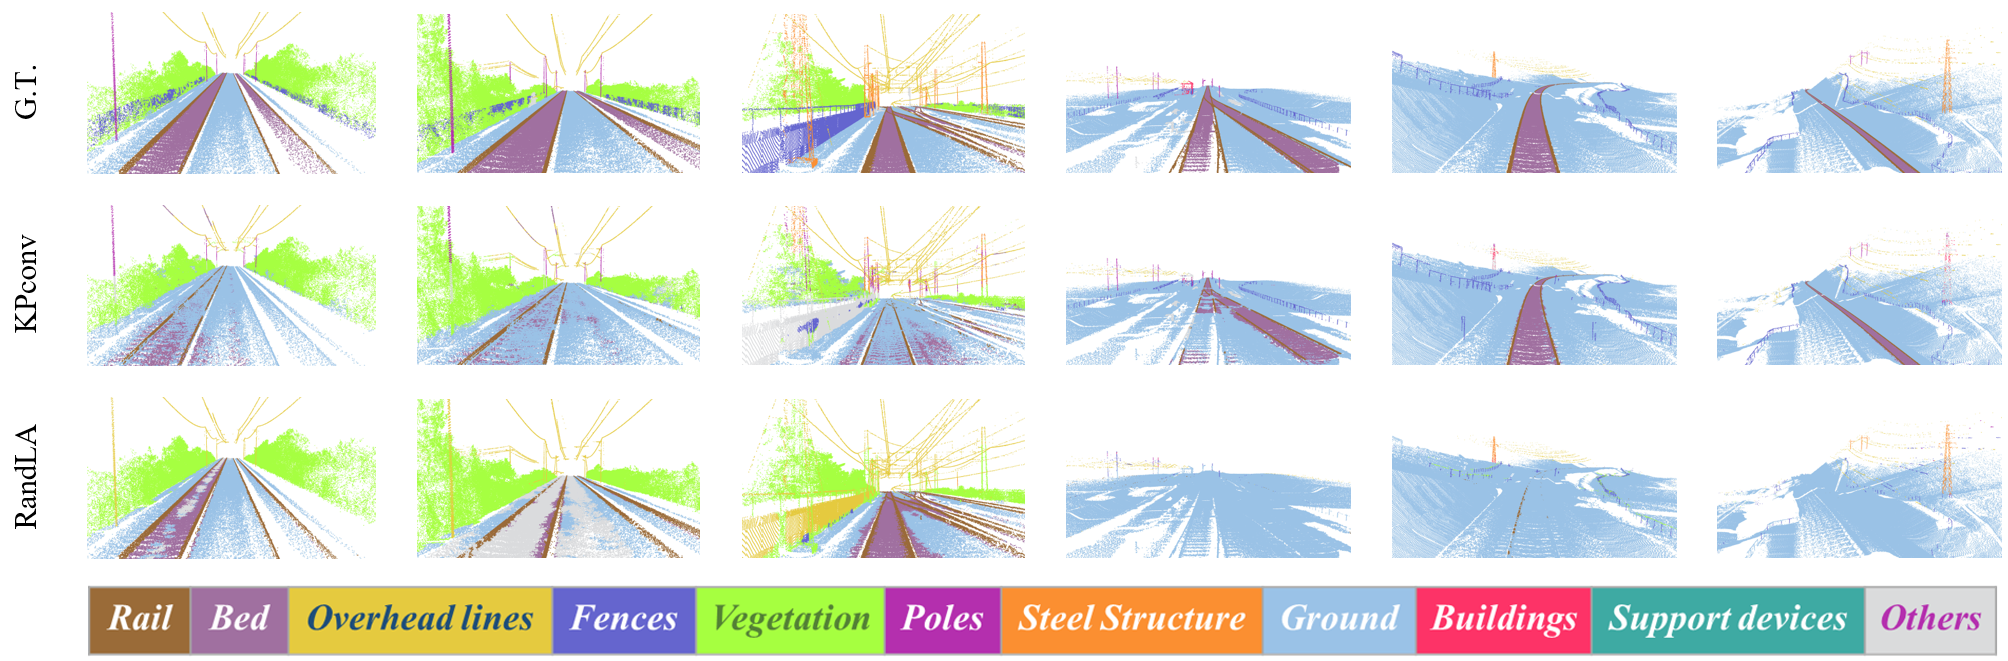
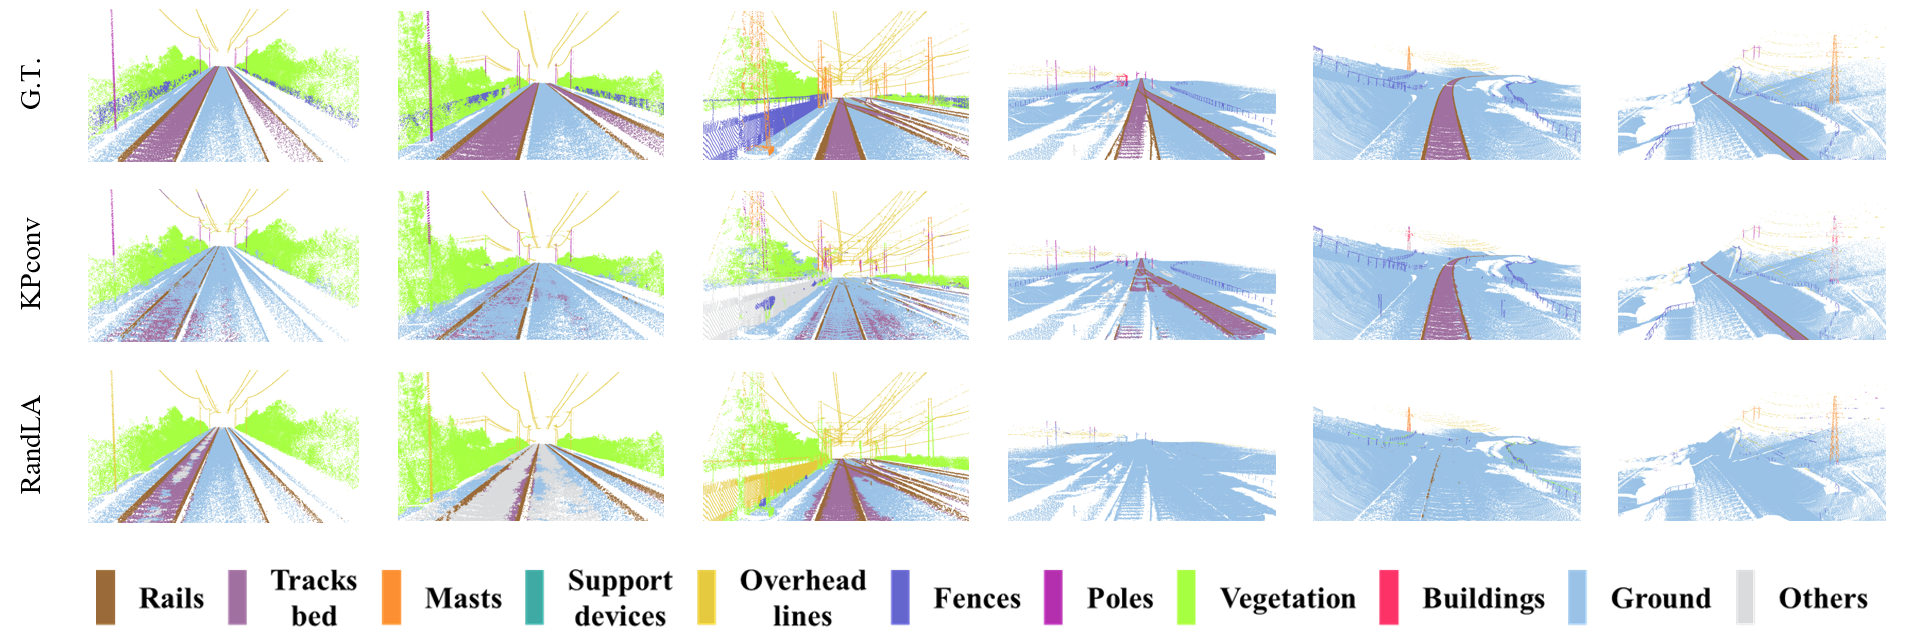
update README.md

diff --git a/README.md b/README.md
@@ -5,7 +5,7 @@
 
 Point cloud semantic segmentation (PCSS) shows great potential in generating accurate 3D semantic maps for digital twin railways. Deep learning-based methods have seen substantial advancements, driven by numerous PCSS datasets. Nevertheless, existing datasets tend to neglect railway scenes, with limitations in scale, categories, and scene diversity. This motivated us to establish WHU-Railway3D, a diverse PCSS dataset specifically designed for railway scenes. 
 
-WHU-Railway3D is categorized into urban, rural, and plateau railways based on scene complexity and semantic class distribution. The dataset spans 30 km with 4 billion points labeled into 11 classes (e.g., rails, overhead lines). In addition to 3D coordinates, WHU-Railway3D provides rich attribute information such as reflected intensity and number of returns. Cutting-edge methods are extensively evaluated on the dataset, followed by in-depth analysis. Lastly, key challenges and potential future work are identified to stimulate further innovative research.
+WHU-Railway3D is categorized into urban, rural, and plateau railways based on scene complexity and semantic class distribution. The dataset spans 30 km with 3.8 billion points labeled into 11 classes (e.g., rails, overhead lines). In addition to 3D coordinates, WHU-Railway3D provides rich attribute information such as reflected intensity and number of returns. Cutting-edge methods are extensively evaluated on the dataset, followed by in-depth analysis. Lastly, key challenges and potential future work are identified to stimulate further innovative research.
 
 ## 📌 Download
 
@@ -21,11 +21,11 @@ Main web page of our group : http://3s.whu.edu.cn/ybs/index.htm
 
 ### 1.1 Overview
 
-Our dataset is categorized based on scene complexity and category distribution patterns into urban railways, rural railways, and plateau railways. Each category covers a distance of approximately 10 kilometers, resulting in a dataset consisting of about 4 billion data points. Each point is labeled under one of the 11 categories, such as rails, masts, overhead lines, and fences.
+Our dataset is categorized based on scene complexity and category distribution patterns into urban railways, rural railways, and plateau railways. Each category covers a distance of approximately 10 kilometers, resulting in a dataset consisting of about 3.8 billion data points. Each point is labeled under one of the 11 categories, such as rails, track bed, masts, overhead lines, and fences.
 
 <img src="images/Fig1-Overview_of_WHU-Railway3D.png" alt="Network" style="zoom:100%;" />
 
-
+<img src="images/Fig2-Display.png" alt="Network" style="zoom:100%;" />
 
 <img src="images/Table1-Comparison.png" alt="Network" style="zoom:100%;" />
 
@@ -39,21 +39,29 @@ Our dataset is categorized based on scene complexity and category distribution p
 
 ### 1.3 Semantic Annotations
 
-- Rails: tracks of the train, as shown in Fig. 3 (g).
-- Bed: the section between tracks, including sleepers, ballast, etc. Refer to Fig. 3 (h).
-- Overhead lines: including power lines and catenary lines, as shown in Fig. 3 (a).
-- Fences: including fences and sound insulation panels.
-- Vegetation: including trees and grass, as shown in Fig. 3 (f)
-- Poles: including utility poles and other pole-like objects, an example can be found in Fig. 3 (i).
-- Towers: including masts and electricity transmission towers near the railways, refer to Fig. 3(b).
-- Ground: including cement and rough ground.
-- Buildings: including houses, high-rise buildings, warehouses, etc. Refer to Fig. 3 (d).
-- Support devices: devices for supporting power lines, as shown in Fig. 3 (c).
-- Others: Other unclassified objects, such as pedestrians, vehicles, etc.
+- Rails: hot-rolled steel with a cross-section approximate to an I-beam, providing a reliable rolling surface for train wheels to travel on, as shown in Fig. 3 (a).
+
+- Track bed: the section between rails, including sleepers, ballast, etc. Refer to Fig. 3 (a).
+
+- Masts: load-bearing steel structures for the overhead line system and supporting devices, as shown in Fig. 3 (b).
+
+- Support devices: including support arms, strings of suspended insulators, and other supporting equipment used to secure overhead lines in the specified position and height, as shown in Fig. 3 (b).
+
+- Overhead lines: a specialized form of transmission line erected above the railway line to supply power to electric locomotives, as shown in Fig. 3 (b).
+
+- Fences: serve as demarcation or protective barriers for railway tracks, aiming to prevent trespassing and vandalism, as shown in Fig. 3 (e).
+
+- Poles: utility poles and other pole-like objects, as shown in Fig. 3 (c).
+
+- Vegetation: including trees and plants, refer to Fig. 3 (e).
+
+- Buildings: structures or constructions surrounding the railway, including low-rise houses, tall buildings, warehouses, etc. Refer to Fig. 3 (d).
+
+- Ground: concrete pavement or bare ground.
+
+- Others: Other unclassified objects, such as pedestrians, vehicles, and bridges, as shown in Fig. 3 (f).
 
 <img src="images/Fig3-Categories.png" alt="Network" style="zoom:100%;" />
-
-
 
 ### 1.4 Statistics
 
@@ -61,21 +69,33 @@ To ensure compatibility with modern GPUs for deep learning-based semantic segmen
 
 <img src="images/Fig4-Statistics.png" alt="Network" style="zoom:50%;" />
 
+
+
 ## ✨ Benchmark
 
 We carry out an extensive evaluation of numerous cutting-edge methods using our dataset and provide an in-depth analysis of the benchmark results. Lastly, we identify key challenges and potential future work to stimulate further innovative research within this community.
+
+- **Table 1**: Quantitative experimental results of different methods on urban railway dataset.
 
 <img src="images/Table3-Benchmarks.png" alt="Network" style="zoom:100%;" />
 
 <img src="images/Fig5-Visualization.png" alt="Network" style="zoom:100%;" />
 
+- **Table 2**: Quantitative experimental results of KPconv and RandLA-Net on the rural railway dataset and plateau railway dataset.
+
 <img src="images/Table4-Benchmarks-2.png" alt="Network" style="zoom:100%;" />
 
 <img src="images/Fig6-Visualization2.png" alt="Network" style="zoom:100%;" />
 
+- **Table 3**: Experimental results of semantic segmentation before and after the introduction of intensity information in different methods. The asterisks (*) in the upper right corner indicate the results obtained by incorporating intensity information.
+
 <img src="images/Table5-Intensity.png" alt="Network" style="zoom:100%;" />
 
+- **Table 4**: Experimental results on the cross-scene generalization ability of KPConv. U2R represents training on the urban railway dataset and testing on the rural railway dataset. U2P represents training on the urban railway dataset and testing on the plateau railway dataset. R2P represents training on the rural railway dataset and testing on the plateau railway dataset.
+
 <img src="images/Table6-Generalization.png" alt="Network" style="zoom:100%;" />
+
+- **Table 5**: Quantitative results of SQN using different rates of labeled data.
 
 <img src="images/Table7-SQN.png" alt="Network" style="zoom:100%;" />
 
